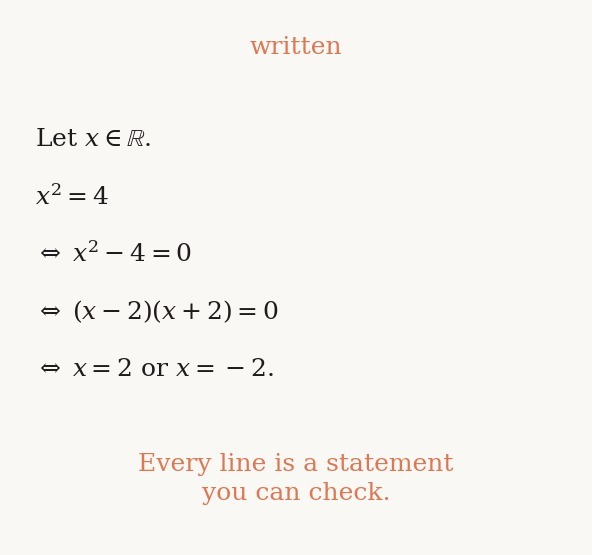
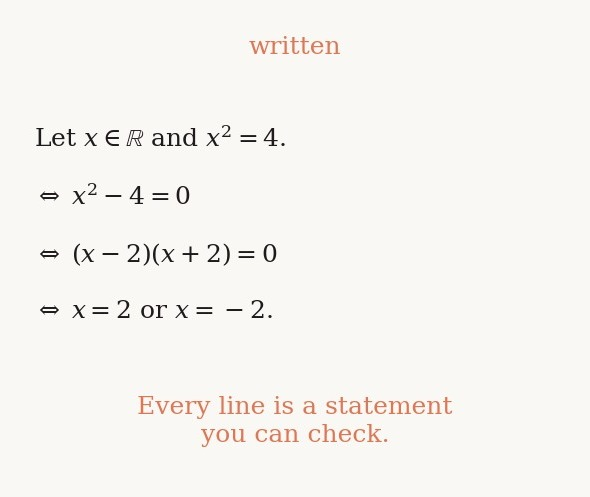
math-writing: written side starts with Let x in R and x^2 = 4

diff --git a/math-writing/math_writing_card.py b/math-writing/math_writing_card.py
@@ -46,15 +46,14 @@ else:
     left = [(r'$x^2 = 4$', 0.19), (r'$= \sqrt{4}$', 0.24), (r'$= 2$', 0.24)]
     for i, (t, xf) in enumerate(left):
         ax.text(W * xf, y0 - i * step, t, ha='left', va='center', fontsize=ff, color=MUTED, family='serif')
-    lines = [r'Let $x \in \mathbb{R}$.',
-             r'$x^2 = 4$',
+    lines = [r'Let $x \in \mathbb{R}$ and $x^2 = 4$.',
              r'$\Leftrightarrow\; x^2 - 4 = 0$',
              r'$\Leftrightarrow\; (x-2)(x+2) = 0$',
              r'$\Leftrightarrow\; x = 2$ or $x = -2$.']
     rstep = step   # same line spacing on both sides
     for i, t in enumerate(lines):
         ax.text(W * 0.56, y0 - i * rstep, t, ha='left', va='center', fontsize=ff, color=DARK, family='serif')
-    ycap = y0 - 4 * rstep - 1.9 * step
+    ycap = y0 - 3 * rstep - 1.9 * step
     ax.text(W * 0.25, ycap, caption_left, ha='center', va='center', fontsize=fc, linespacing=1.3, family='serif', color=ROSE)
     ax.text(W * 0.75, ycap, caption_right, ha='center', va='center', fontsize=fc, linespacing=1.3, family='serif', color=TERRA)
 
